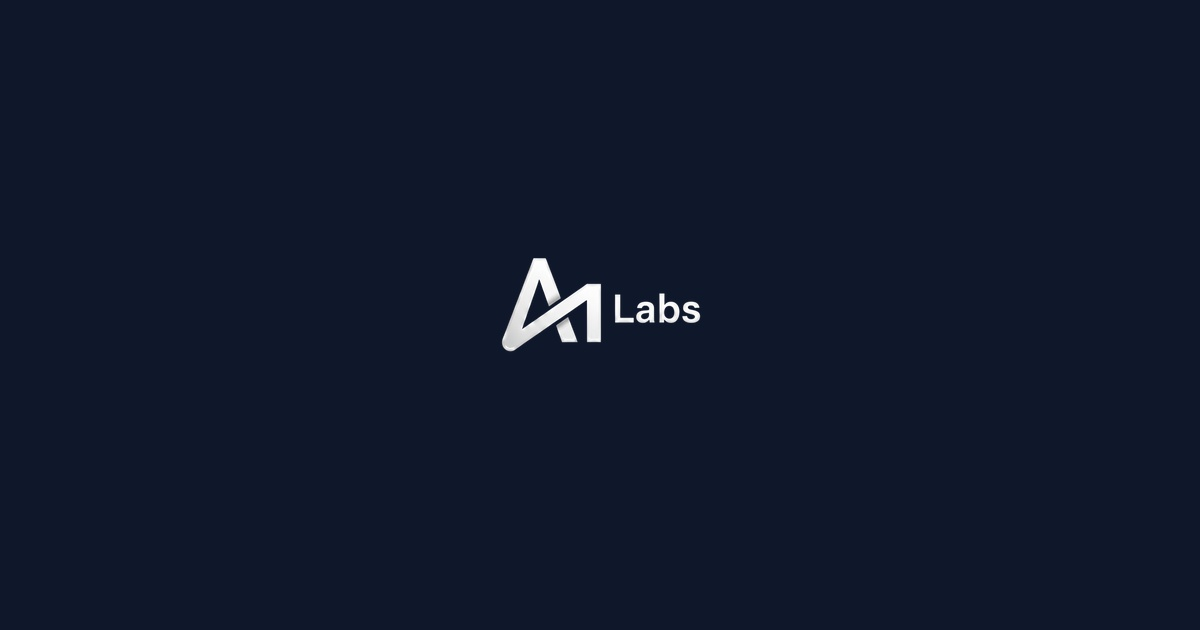
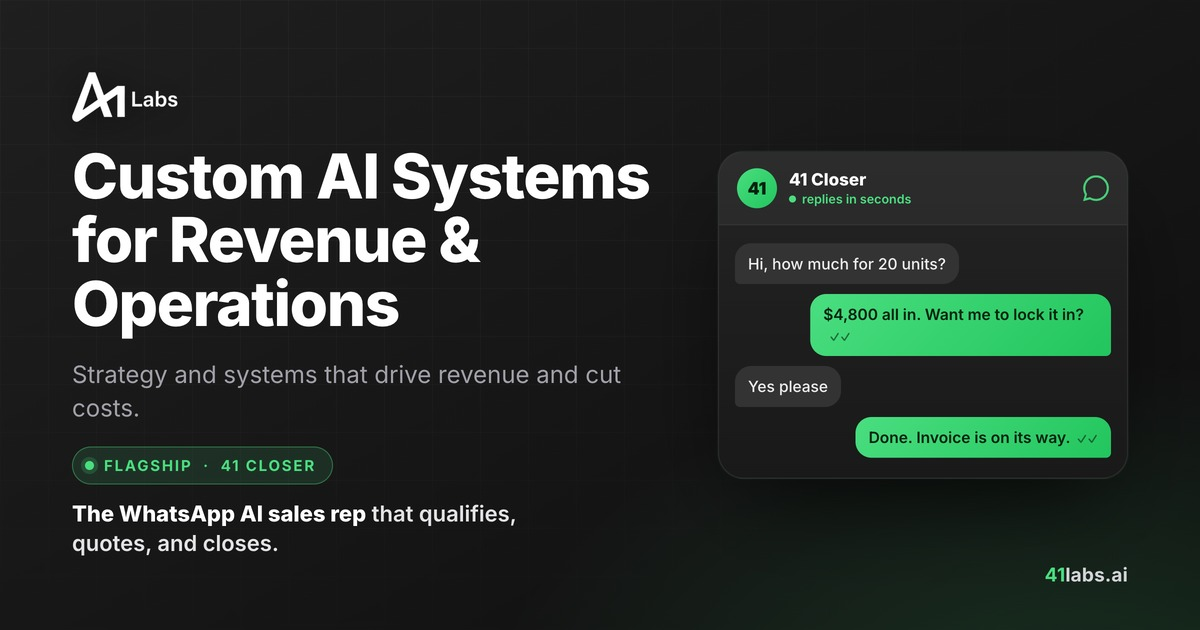
Replace placeholder OG image with branded 41 Closer social card
New 1200x630 card: brand near-black bg + green accent (no blue), crisp
white logo, flagship 41 Closer shown closing a WhatsApp deal. Repoints
audit.html's broken og-audit.png reference to the new card and adds
?v=2 cache-bust so WhatsApp/LinkedIn re-fetch instead of the old image.

diff --git a/ai-guide-singapore.html b/ai-guide-singapore.html
@@ -15,19 +15,19 @@
     <meta property="og:url" content="https://41labs.ai/ai-guide-singapore">
     <meta property="og:title" content="AI for Singapore Businesses: The Complete Guide (2026)">
     <meta property="og:description" content="What to automate, what it costs, EDG funding, how to choose a partner, and real results — the complete SME guide.">
-    <meta property="og:image" content="https://41labs.ai/og-image.jpg">
+    <meta property="og:image" content="https://41labs.ai/og-image.jpg?v=2">
     <meta property="og:site_name" content="41 Labs">
     <meta name="twitter:card" content="summary_large_image">
     <meta name="twitter:title" content="AI for Singapore Businesses: The Complete Guide (2026)">
     <meta name="twitter:description" content="The complete SME guide to adopting AI in Singapore.">
-    <meta name="twitter:image" content="https://41labs.ai/og-image.jpg">
+    <meta name="twitter:image" content="https://41labs.ai/og-image.jpg?v=2">
 
     <script type="application/ld+json">
     {
         "@context": "https://schema.org", "@type": "Article",
         "headline": "AI for Singapore Businesses: The Complete Guide (2026)",
         "description": "The complete guide to AI for Singapore businesses — what to automate, costs, EDG funding, how to choose a partner, and real results.",
-        "image": "https://41labs.ai/og-image.jpg",
+        "image": "https://41labs.ai/og-image.jpg?v=2",
         "author": {"@type": "Person", "name": "Alexander Lee", "jobTitle": "Founder & CEO", "url": "https://www.linkedin.com/in/leejunweialexander/"},
         "publisher": {"@type": "Organization", "name": "41 Labs", "logo": {"@type": "ImageObject", "url": "https://41labs.ai/logo-full.png"}},
         "datePublished": "2026-06-15T08:00:00+08:00", "dateModified": "2026-06-15T08:00:00+08:00",

diff --git a/41-closer.html b/41-closer.html
@@ -30,14 +30,14 @@
     <meta property="og:url" content="https://41labs.ai/41-closer">
     <meta property="og:title" content="41 Closer | Close More Deals on WhatsApp">
     <meta property="og:description" content="You're losing sales on WhatsApp. 41 Closer answers, quotes, and closes day and night. We build it and run it. From $690 a month.">
-    <meta property="og:image" content="https://41labs.ai/og-image.jpg">
+    <meta property="og:image" content="https://41labs.ai/og-image.jpg?v=2">
     <meta property="og:site_name" content="41 Labs">
 
     <!-- Twitter -->
     <meta name="twitter:card" content="summary_large_image">
     <meta name="twitter:title" content="41 Closer | Close More Deals on WhatsApp">
     <meta name="twitter:description" content="You're losing sales. We close them. 41 Closer answers, quotes, and closes 24/7. We build it and run it. From $690/mo.">
-    <meta name="twitter:image" content="https://41labs.ai/og-image.jpg">
+    <meta name="twitter:image" content="https://41labs.ai/og-image.jpg?v=2">
 
     <!-- Favicons -->
     <link rel="icon" type="image/png" sizes="32x32" href="logo-icon.png">

diff --git a/about.html b/about.html
@@ -15,7 +15,7 @@
     <meta property="og:url" content="https://41labs.ai/about.html">
     <meta property="og:title" content="About Us | 41 Labs">
     <meta property="og:description" content="Meet the team behind 41 Labs. We're AI specialists who build custom systems that actually work for complex businesses.">
-    <meta property="og:image" content="https://41labs.ai/og-image.jpg">
+    <meta property="og:image" content="https://41labs.ai/og-image.jpg?v=2">
     <meta property="og:site_name" content="41 Labs">
     <meta property="og:locale" content="en_US">
 
@@ -24,7 +24,7 @@
     <meta name="twitter:url" content="https://41labs.ai/about.html">
     <meta name="twitter:title" content="About Us | 41 Labs">
     <meta name="twitter:description" content="Meet the team behind 41 Labs. We're AI specialists who build custom systems that actually work for complex businesses.">
-    <meta name="twitter:image" content="https://41labs.ai/og-image.jpg">
+    <meta name="twitter:image" content="https://41labs.ai/og-image.jpg?v=2">
 
     <!-- Person Schema -->
     <script type="application/ld+json">

diff --git a/ai-appointment-booking.html b/ai-appointment-booking.html
@@ -10,8 +10,8 @@
     <meta name="robots" content="index, follow, max-image-preview:large, max-snippet:-1, max-video-preview:-1">
     <link rel="canonical" href="https://41labs.ai/ai-appointment-booking">
     <meta name="geo.region" content="SG"><meta name="geo.placename" content="Singapore"><meta name="geo.position" content="1.3521;103.8198"><meta name="ICBM" content="1.3521, 103.8198">
-    <meta property="og:type" content="website"><meta property="og:url" content="https://41labs.ai/ai-appointment-booking"><meta property="og:title" content="AI Appointment Booking &amp; Virtual Receptionist | 41 Labs"><meta property="og:description" content="An AI receptionist that books appointments and fills your calendar 24/7 — on WhatsApp, web, and phone."><meta property="og:image" content="https://41labs.ai/og-image.jpg"><meta property="og:site_name" content="41 Labs">
-    <meta name="twitter:card" content="summary_large_image"><meta name="twitter:title" content="AI Appointment Booking &amp; Virtual Receptionist | 41 Labs"><meta name="twitter:description" content="An AI receptionist that books appointments and fills your calendar 24/7 — on WhatsApp, web, and phone."><meta name="twitter:image" content="https://41labs.ai/og-image.jpg">
+    <meta property="og:type" content="website"><meta property="og:url" content="https://41labs.ai/ai-appointment-booking"><meta property="og:title" content="AI Appointment Booking &amp; Virtual Receptionist | 41 Labs"><meta property="og:description" content="An AI receptionist that books appointments and fills your calendar 24/7 — on WhatsApp, web, and phone."><meta property="og:image" content="https://41labs.ai/og-image.jpg?v=2"><meta property="og:site_name" content="41 Labs">
+    <meta name="twitter:card" content="summary_large_image"><meta name="twitter:title" content="AI Appointment Booking &amp; Virtual Receptionist | 41 Labs"><meta name="twitter:description" content="An AI receptionist that books appointments and fills your calendar 24/7 — on WhatsApp, web, and phone."><meta name="twitter:image" content="https://41labs.ai/og-image.jpg?v=2">
     <script type="application/ld+json">{
   "@context": "https://schema.org",
   "@type": "ProfessionalService",

diff --git a/ai-automation-agency-singapore.html b/ai-automation-agency-singapore.html
@@ -19,12 +19,12 @@
     <meta property="og:url" content="https://41labs.ai/ai-automation-agency-singapore">
     <meta property="og:title" content="AI Automation Agency Singapore | 41 Labs">
     <meta property="og:description" content="A Singapore AI automation agency that builds custom systems on your data — not off-the-shelf tools. Free prototype before you pay.">
-    <meta property="og:image" content="https://41labs.ai/og-image.jpg">
+    <meta property="og:image" content="https://41labs.ai/og-image.jpg?v=2">
     <meta property="og:site_name" content="41 Labs">
     <meta name="twitter:card" content="summary_large_image">
     <meta name="twitter:title" content="AI Automation Agency Singapore | 41 Labs">
     <meta name="twitter:description" content="A Singapore AI automation agency that builds custom systems on your data — not off-the-shelf tools.">
-    <meta name="twitter:image" content="https://41labs.ai/og-image.jpg">
+    <meta name="twitter:image" content="https://41labs.ai/og-image.jpg?v=2">
 
     <!-- ProfessionalService Schema -->
     <script type="application/ld+json">

diff --git a/ai-development-company-singapore.html b/ai-development-company-singapore.html
@@ -10,8 +10,8 @@
     <meta name="robots" content="index, follow, max-image-preview:large, max-snippet:-1, max-video-preview:-1">
     <link rel="canonical" href="https://41labs.ai/ai-development-company-singapore">
     <meta name="geo.region" content="SG"><meta name="geo.placename" content="Singapore"><meta name="geo.position" content="1.3521;103.8198"><meta name="ICBM" content="1.3521, 103.8198">
-    <meta property="og:type" content="website"><meta property="og:url" content="https://41labs.ai/ai-development-company-singapore"><meta property="og:title" content="AI Development Company Singapore | 41 Labs"><meta property="og:description" content="An AI development company in Singapore building custom systems on your data — not off-the-shelf tools."><meta property="og:image" content="https://41labs.ai/og-image.jpg"><meta property="og:site_name" content="41 Labs">
-    <meta name="twitter:card" content="summary_large_image"><meta name="twitter:title" content="AI Development Company Singapore | 41 Labs"><meta name="twitter:description" content="An AI development company in Singapore building custom systems on your data — not off-the-shelf tools."><meta name="twitter:image" content="https://41labs.ai/og-image.jpg">
+    <meta property="og:type" content="website"><meta property="og:url" content="https://41labs.ai/ai-development-company-singapore"><meta property="og:title" content="AI Development Company Singapore | 41 Labs"><meta property="og:description" content="An AI development company in Singapore building custom systems on your data — not off-the-shelf tools."><meta property="og:image" content="https://41labs.ai/og-image.jpg?v=2"><meta property="og:site_name" content="41 Labs">
+    <meta name="twitter:card" content="summary_large_image"><meta name="twitter:title" content="AI Development Company Singapore | 41 Labs"><meta name="twitter:description" content="An AI development company in Singapore building custom systems on your data — not off-the-shelf tools."><meta name="twitter:image" content="https://41labs.ai/og-image.jpg?v=2">
     <script type="application/ld+json">{
   "@context": "https://schema.org",
   "@type": "ProfessionalService",

diff --git a/ai-for-ecommerce.html b/ai-for-ecommerce.html
@@ -10,8 +10,8 @@
     <meta name="robots" content="index, follow, max-image-preview:large, max-snippet:-1, max-video-preview:-1">
     <link rel="canonical" href="https://41labs.ai/ai-for-ecommerce">
     <meta name="geo.region" content="SG"><meta name="geo.placename" content="Singapore"><meta name="geo.position" content="1.3521;103.8198"><meta name="ICBM" content="1.3521, 103.8198">
-    <meta property="og:type" content="website"><meta property="og:url" content="https://41labs.ai/ai-for-ecommerce"><meta property="og:title" content="AI for Ecommerce: Sales Agents &amp; Chatbots That Sell 24/7 | 41 Labs"><meta property="og:description" content="AI sales agents &amp; chatbots that sell on your online store 24/7 — trained on your real catalogue, not generic."><meta property="og:image" content="https://41labs.ai/og-image.jpg"><meta property="og:site_name" content="41 Labs">
-    <meta name="twitter:card" content="summary_large_image"><meta name="twitter:title" content="AI for Ecommerce: Sales Agents &amp; Chatbots That Sell 24/7 | 41 Labs"><meta name="twitter:description" content="AI sales agents &amp; chatbots that sell on your online store 24/7 — trained on your real catalogue, not generic."><meta name="twitter:image" content="https://41labs.ai/og-image.jpg">
+    <meta property="og:type" content="website"><meta property="og:url" content="https://41labs.ai/ai-for-ecommerce"><meta property="og:title" content="AI for Ecommerce: Sales Agents &amp; Chatbots That Sell 24/7 | 41 Labs"><meta property="og:description" content="AI sales agents &amp; chatbots that sell on your online store 24/7 — trained on your real catalogue, not generic."><meta property="og:image" content="https://41labs.ai/og-image.jpg?v=2"><meta property="og:site_name" content="41 Labs">
+    <meta name="twitter:card" content="summary_large_image"><meta name="twitter:title" content="AI for Ecommerce: Sales Agents &amp; Chatbots That Sell 24/7 | 41 Labs"><meta name="twitter:description" content="AI sales agents &amp; chatbots that sell on your online store 24/7 — trained on your real catalogue, not generic."><meta name="twitter:image" content="https://41labs.ai/og-image.jpg?v=2">
     <script type="application/ld+json">{
   "@context": "https://schema.org",
   "@type": "ProfessionalService",

diff --git a/ai-sales-agent-singapore.html b/ai-sales-agent-singapore.html
@@ -10,8 +10,8 @@
     <meta name="robots" content="index, follow, max-image-preview:large, max-snippet:-1, max-video-preview:-1">
     <link rel="canonical" href="https://41labs.ai/ai-sales-agent-singapore">
     <meta name="geo.region" content="SG"><meta name="geo.placename" content="Singapore"><meta name="geo.position" content="1.3521;103.8198"><meta name="ICBM" content="1.3521, 103.8198">
-    <meta property="og:type" content="website"><meta property="og:url" content="https://41labs.ai/ai-sales-agent-singapore"><meta property="og:title" content="AI Sales Agent for Singapore Businesses | 41 Labs"><meta property="og:description" content="Custom AI sales agents trained on your catalogue and pricing — WhatsApp-native, built for Singapore SMEs."><meta property="og:image" content="https://41labs.ai/og-image.jpg"><meta property="og:site_name" content="41 Labs">
-    <meta name="twitter:card" content="summary_large_image"><meta name="twitter:title" content="AI Sales Agent for Singapore Businesses | 41 Labs"><meta name="twitter:description" content="Custom AI sales agents trained on your catalogue and pricing — WhatsApp-native, built for Singapore SMEs."><meta name="twitter:image" content="https://41labs.ai/og-image.jpg">
+    <meta property="og:type" content="website"><meta property="og:url" content="https://41labs.ai/ai-sales-agent-singapore"><meta property="og:title" content="AI Sales Agent for Singapore Businesses | 41 Labs"><meta property="og:description" content="Custom AI sales agents trained on your catalogue and pricing — WhatsApp-native, built for Singapore SMEs."><meta property="og:image" content="https://41labs.ai/og-image.jpg?v=2"><meta property="og:site_name" content="41 Labs">
+    <meta name="twitter:card" content="summary_large_image"><meta name="twitter:title" content="AI Sales Agent for Singapore Businesses | 41 Labs"><meta name="twitter:description" content="Custom AI sales agents trained on your catalogue and pricing — WhatsApp-native, built for Singapore SMEs."><meta name="twitter:image" content="https://41labs.ai/og-image.jpg?v=2">
     <script type="application/ld+json">{
   "@context": "https://schema.org",
   "@type": "ProfessionalService",

diff --git a/audit.html b/audit.html
@@ -22,7 +22,7 @@
 <meta property="og:url" content="https://41labs.ai/audit">
 <meta property="og:title" content="Free AI Readiness Audit — Get Your Score in 60 Seconds">
 <meta property="og:description" content="Discover where AI can save your business money. Get a personalized AI readiness score, automation opportunities, and ROI estimate — free in 60 seconds.">
-<meta property="og:image" content="https://41labs.ai/og-audit.png">
+<meta property="og:image" content="https://41labs.ai/og-image.jpg?v=2">
 <meta property="og:site_name" content="41 Labs">
 <meta property="og:locale" content="en_US">
 
@@ -31,7 +31,7 @@
 <meta name="twitter:url" content="https://41labs.ai/audit">
 <meta name="twitter:title" content="Free AI Readiness Audit — Get Your Score in 60 Seconds">
 <meta name="twitter:description" content="Discover where AI can save your business money. Personalized AI readiness score, automation opportunities, and ROI estimate — free.">
-<meta name="twitter:image" content="https://41labs.ai/og-audit.png">
+<meta name="twitter:image" content="https://41labs.ai/og-image.jpg?v=2">
 
 <!-- Favicons -->
 <link rel="icon" type="image/png" sizes="32x32" href="/logo-icon.png">

diff --git a/blog.html b/blog.html
@@ -26,7 +26,7 @@
     <meta property="og:url" content="https://41labs.ai/blog">
     <meta property="og:title" content="Blog | 41 Labs - AI Insights for Business Operations">
     <meta property="og:description" content="Practical insights on AI systems, automation, and operational efficiency for B2B businesses.">
-    <meta property="og:image" content="https://41labs.ai/og-image.jpg">
+    <meta property="og:image" content="https://41labs.ai/og-image.jpg?v=2">
     <meta property="og:site_name" content="41 Labs">
 
     <!-- Twitter -->
@@ -34,7 +34,7 @@
     <meta name="twitter:url" content="https://41labs.ai/blog">
     <meta name="twitter:title" content="Blog | 41 Labs - AI Insights for Business Operations">
     <meta name="twitter:description" content="Practical insights on AI systems, automation, and operational efficiency for B2B businesses.">
-    <meta name="twitter:image" content="https://41labs.ai/og-image.jpg">
+    <meta name="twitter:image" content="https://41labs.ai/og-image.jpg?v=2">
 
     <!-- Structured Data for Blog -->
     <script type="application/ld+json">

diff --git a/case-studies.html b/case-studies.html
@@ -14,7 +14,7 @@
     <meta property="og:url" content="https://41labs.ai/case-studies.html">
     <meta property="og:title" content="Case Studies | 41 Labs">
     <meta property="og:description" content="Real results from real businesses. See how custom AI systems have transformed operations.">
-    <meta property="og:image" content="https://41labs.ai/og-image.jpg">
+    <meta property="og:image" content="https://41labs.ai/og-image.jpg?v=2">
     <meta property="og:site_name" content="41 Labs">
     <meta property="og:locale" content="en_US">
 
@@ -23,7 +23,7 @@
     <meta name="twitter:url" content="https://41labs.ai/case-studies.html">
     <meta name="twitter:title" content="Case Studies | 41 Labs">
     <meta name="twitter:description" content="Real results from real businesses. See how custom AI systems have transformed operations.">
-    <meta name="twitter:image" content="https://41labs.ai/og-image.jpg">
+    <meta name="twitter:image" content="https://41labs.ai/og-image.jpg?v=2">
 
     <!-- CollectionPage Schema -->
     <script type="application/ld+json">

diff --git a/events.html b/events.html
@@ -13,12 +13,12 @@
     <meta property="og:url" content="https://41labs.ai/events">
     <meta property="og:title" content="Events & Recognition | 41 Labs">
     <meta property="og:description" content="Where you'll find 41 Labs in the AI community — SAIA member, NRF Big Show APAC, SuperAI, Stripe events.">
-    <meta property="og:image" content="https://41labs.ai/og-image.jpg">
+    <meta property="og:image" content="https://41labs.ai/og-image.jpg?v=2">
     <meta property="og:site_name" content="41 Labs">
     <meta name="twitter:card" content="summary_large_image">
     <meta name="twitter:title" content="Events & Recognition | 41 Labs">
     <meta name="twitter:description" content="Where you'll find 41 Labs in the AI community.">
-    <meta name="twitter:image" content="https://41labs.ai/og-image.jpg">
+    <meta name="twitter:image" content="https://41labs.ai/og-image.jpg?v=2">
 
     <script type="application/ld+json">
     {